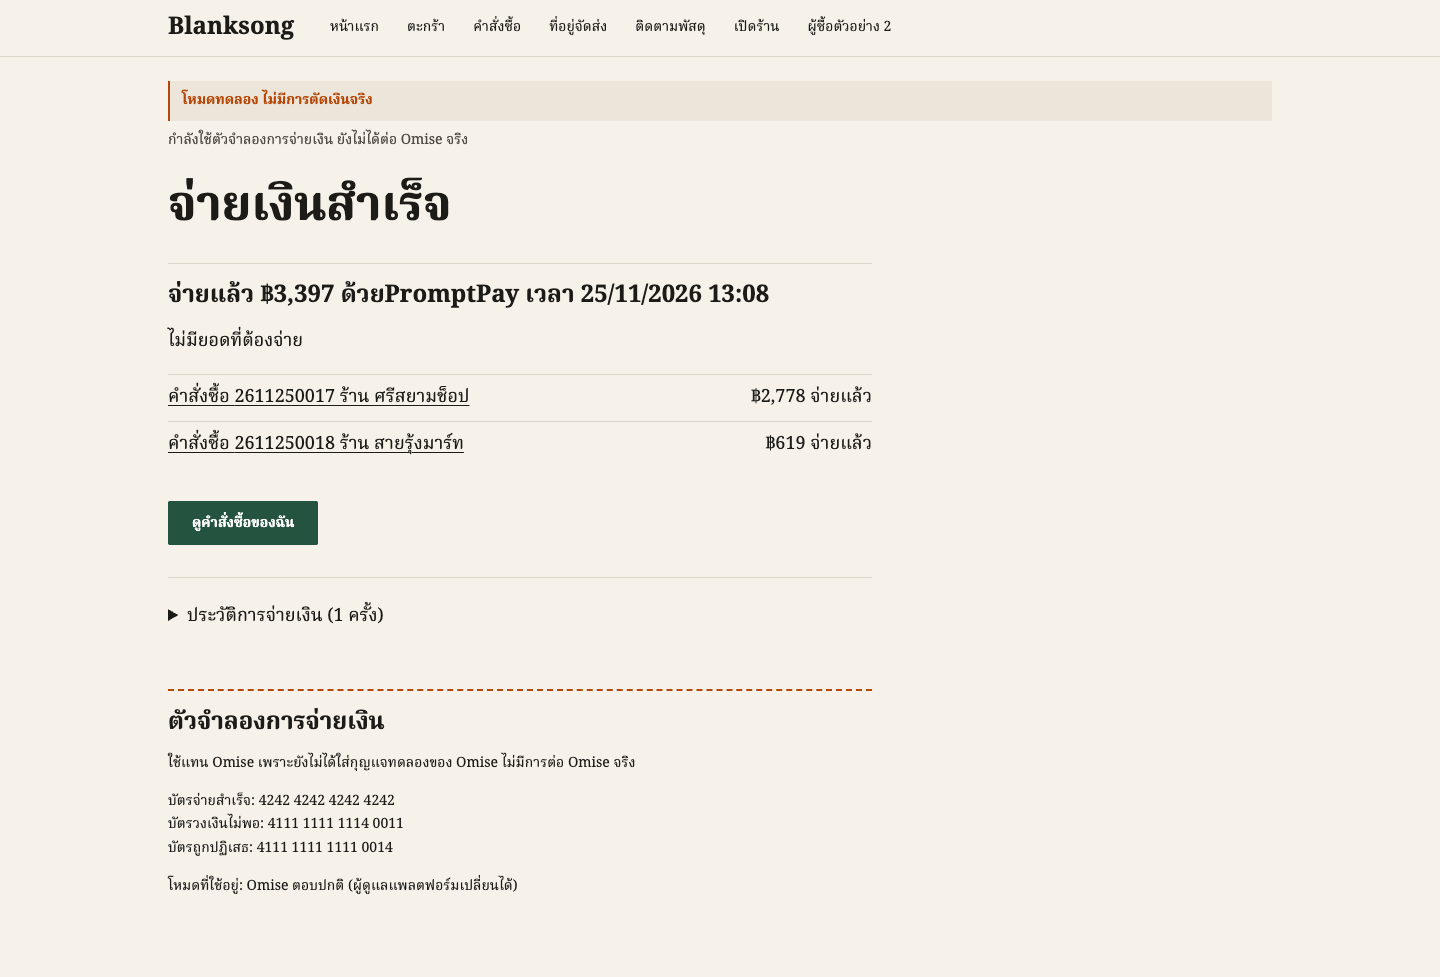
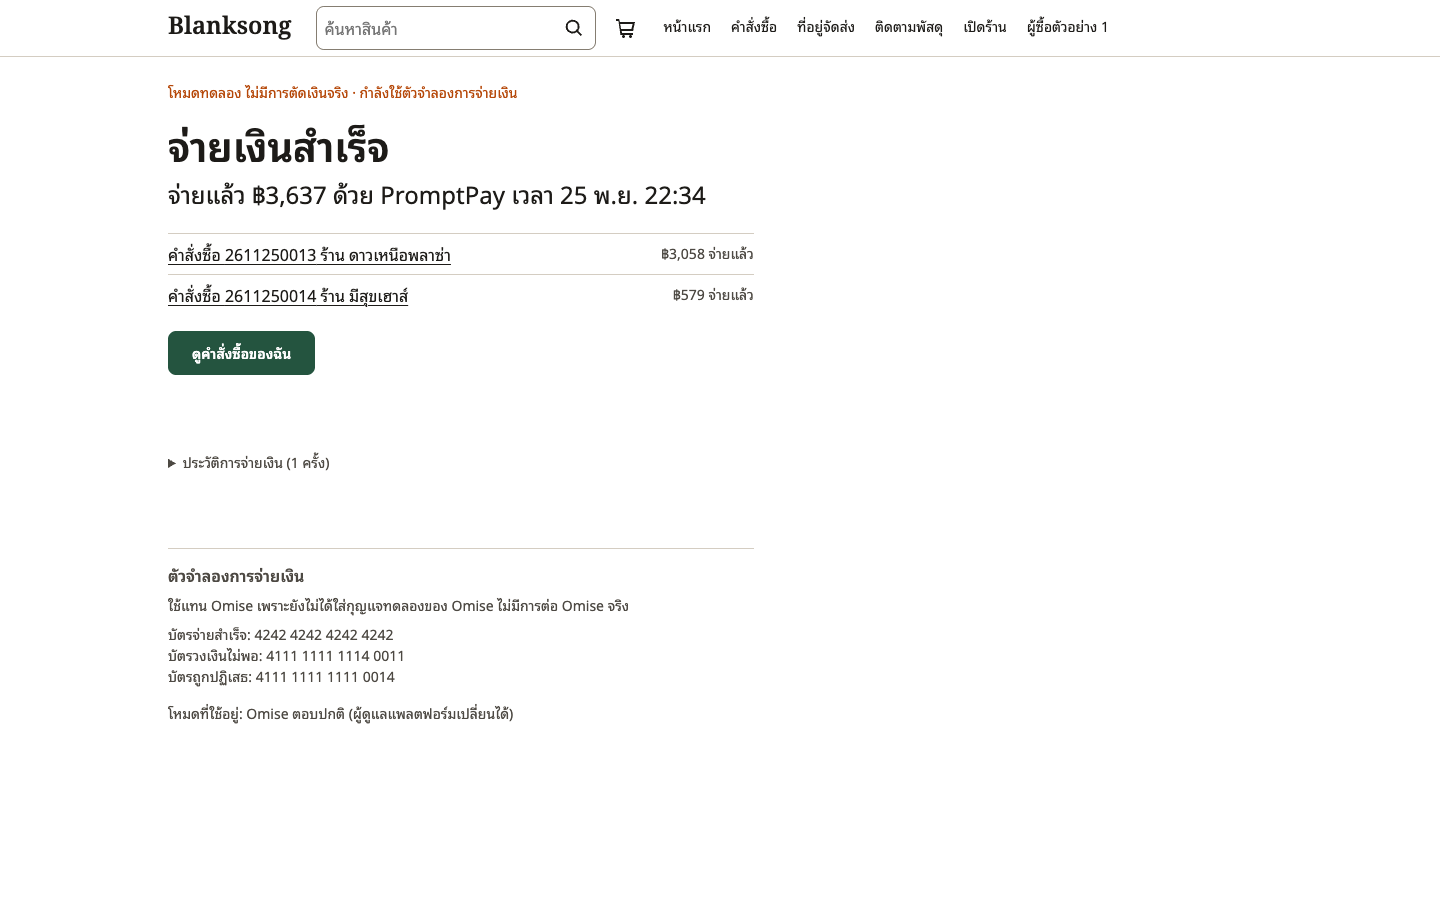
Add round-2 screenshots of cart, checkout, addresses, orders and payment
First screen and full page at 1440x900 and 390x844, plus empty cart, no orders,
form errors, declined card and expired payment. The simulator panel keeps the
page width instead of shrinking with its smaller text.

diff --git a/src/features/payment/components/payment.module.css b/src/features/payment/components/payment.module.css
@@ -212,6 +212,11 @@
   padding-top: var(--space-4);
   border-top: 1px solid var(--color-border);
   color: var(--color-muted);
+}
+
+.simulatorPanel p,
+.simulatorPanel li,
+.simulatorRow > span {
   font-size: var(--text-label);
 }
 
